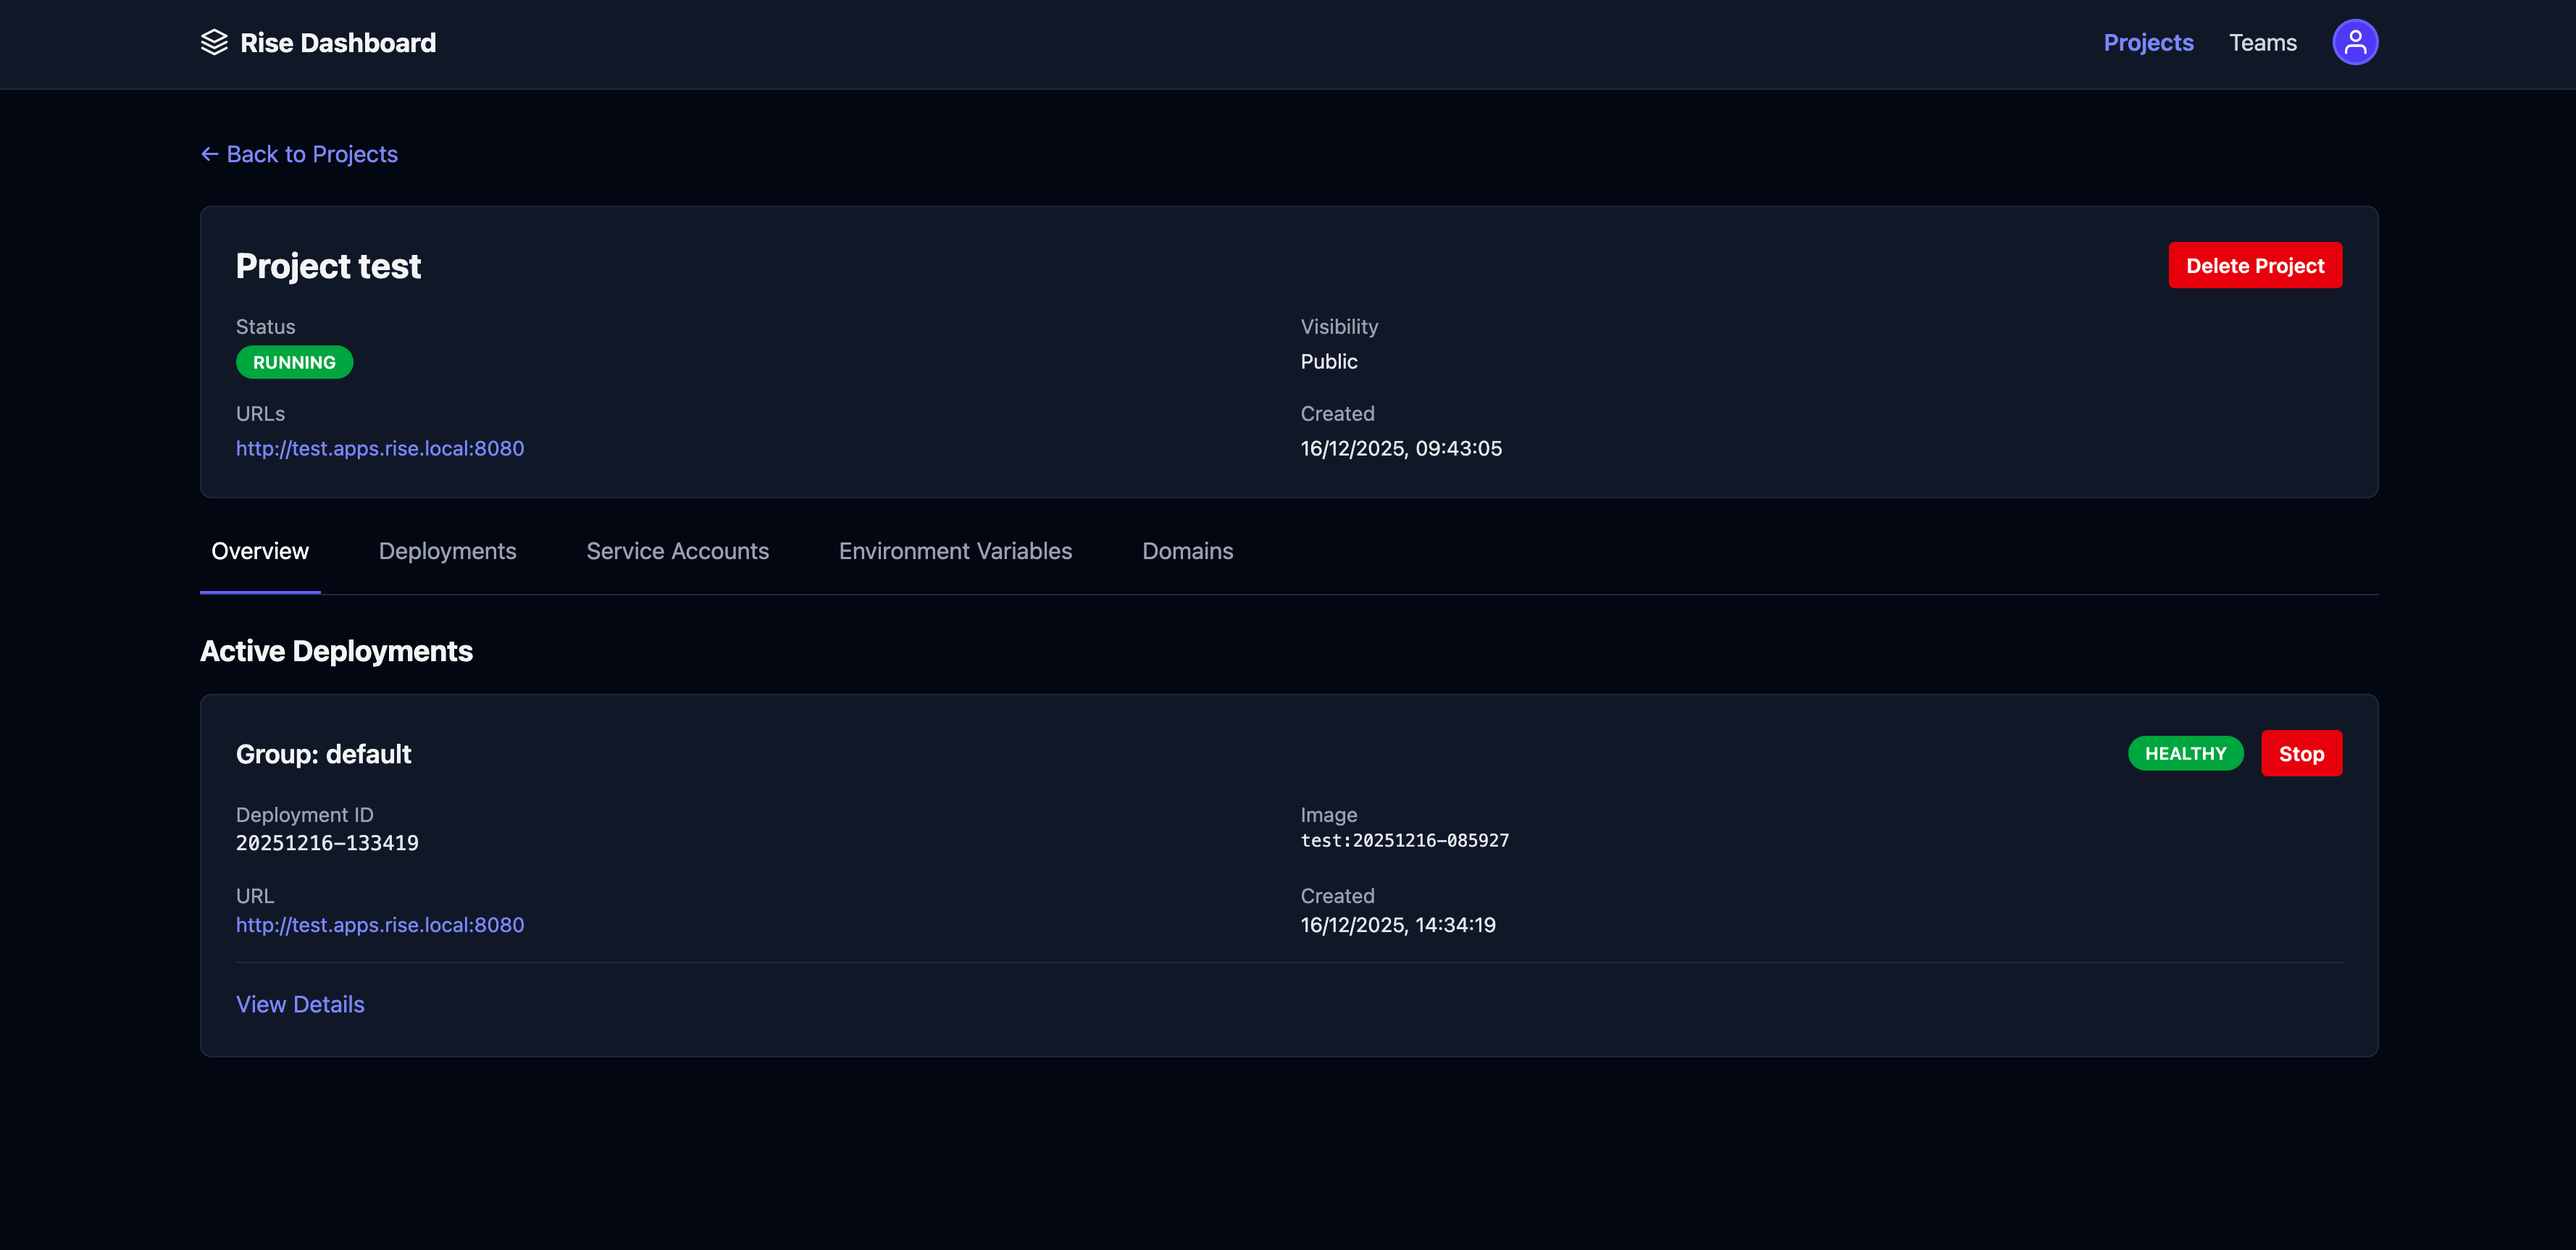
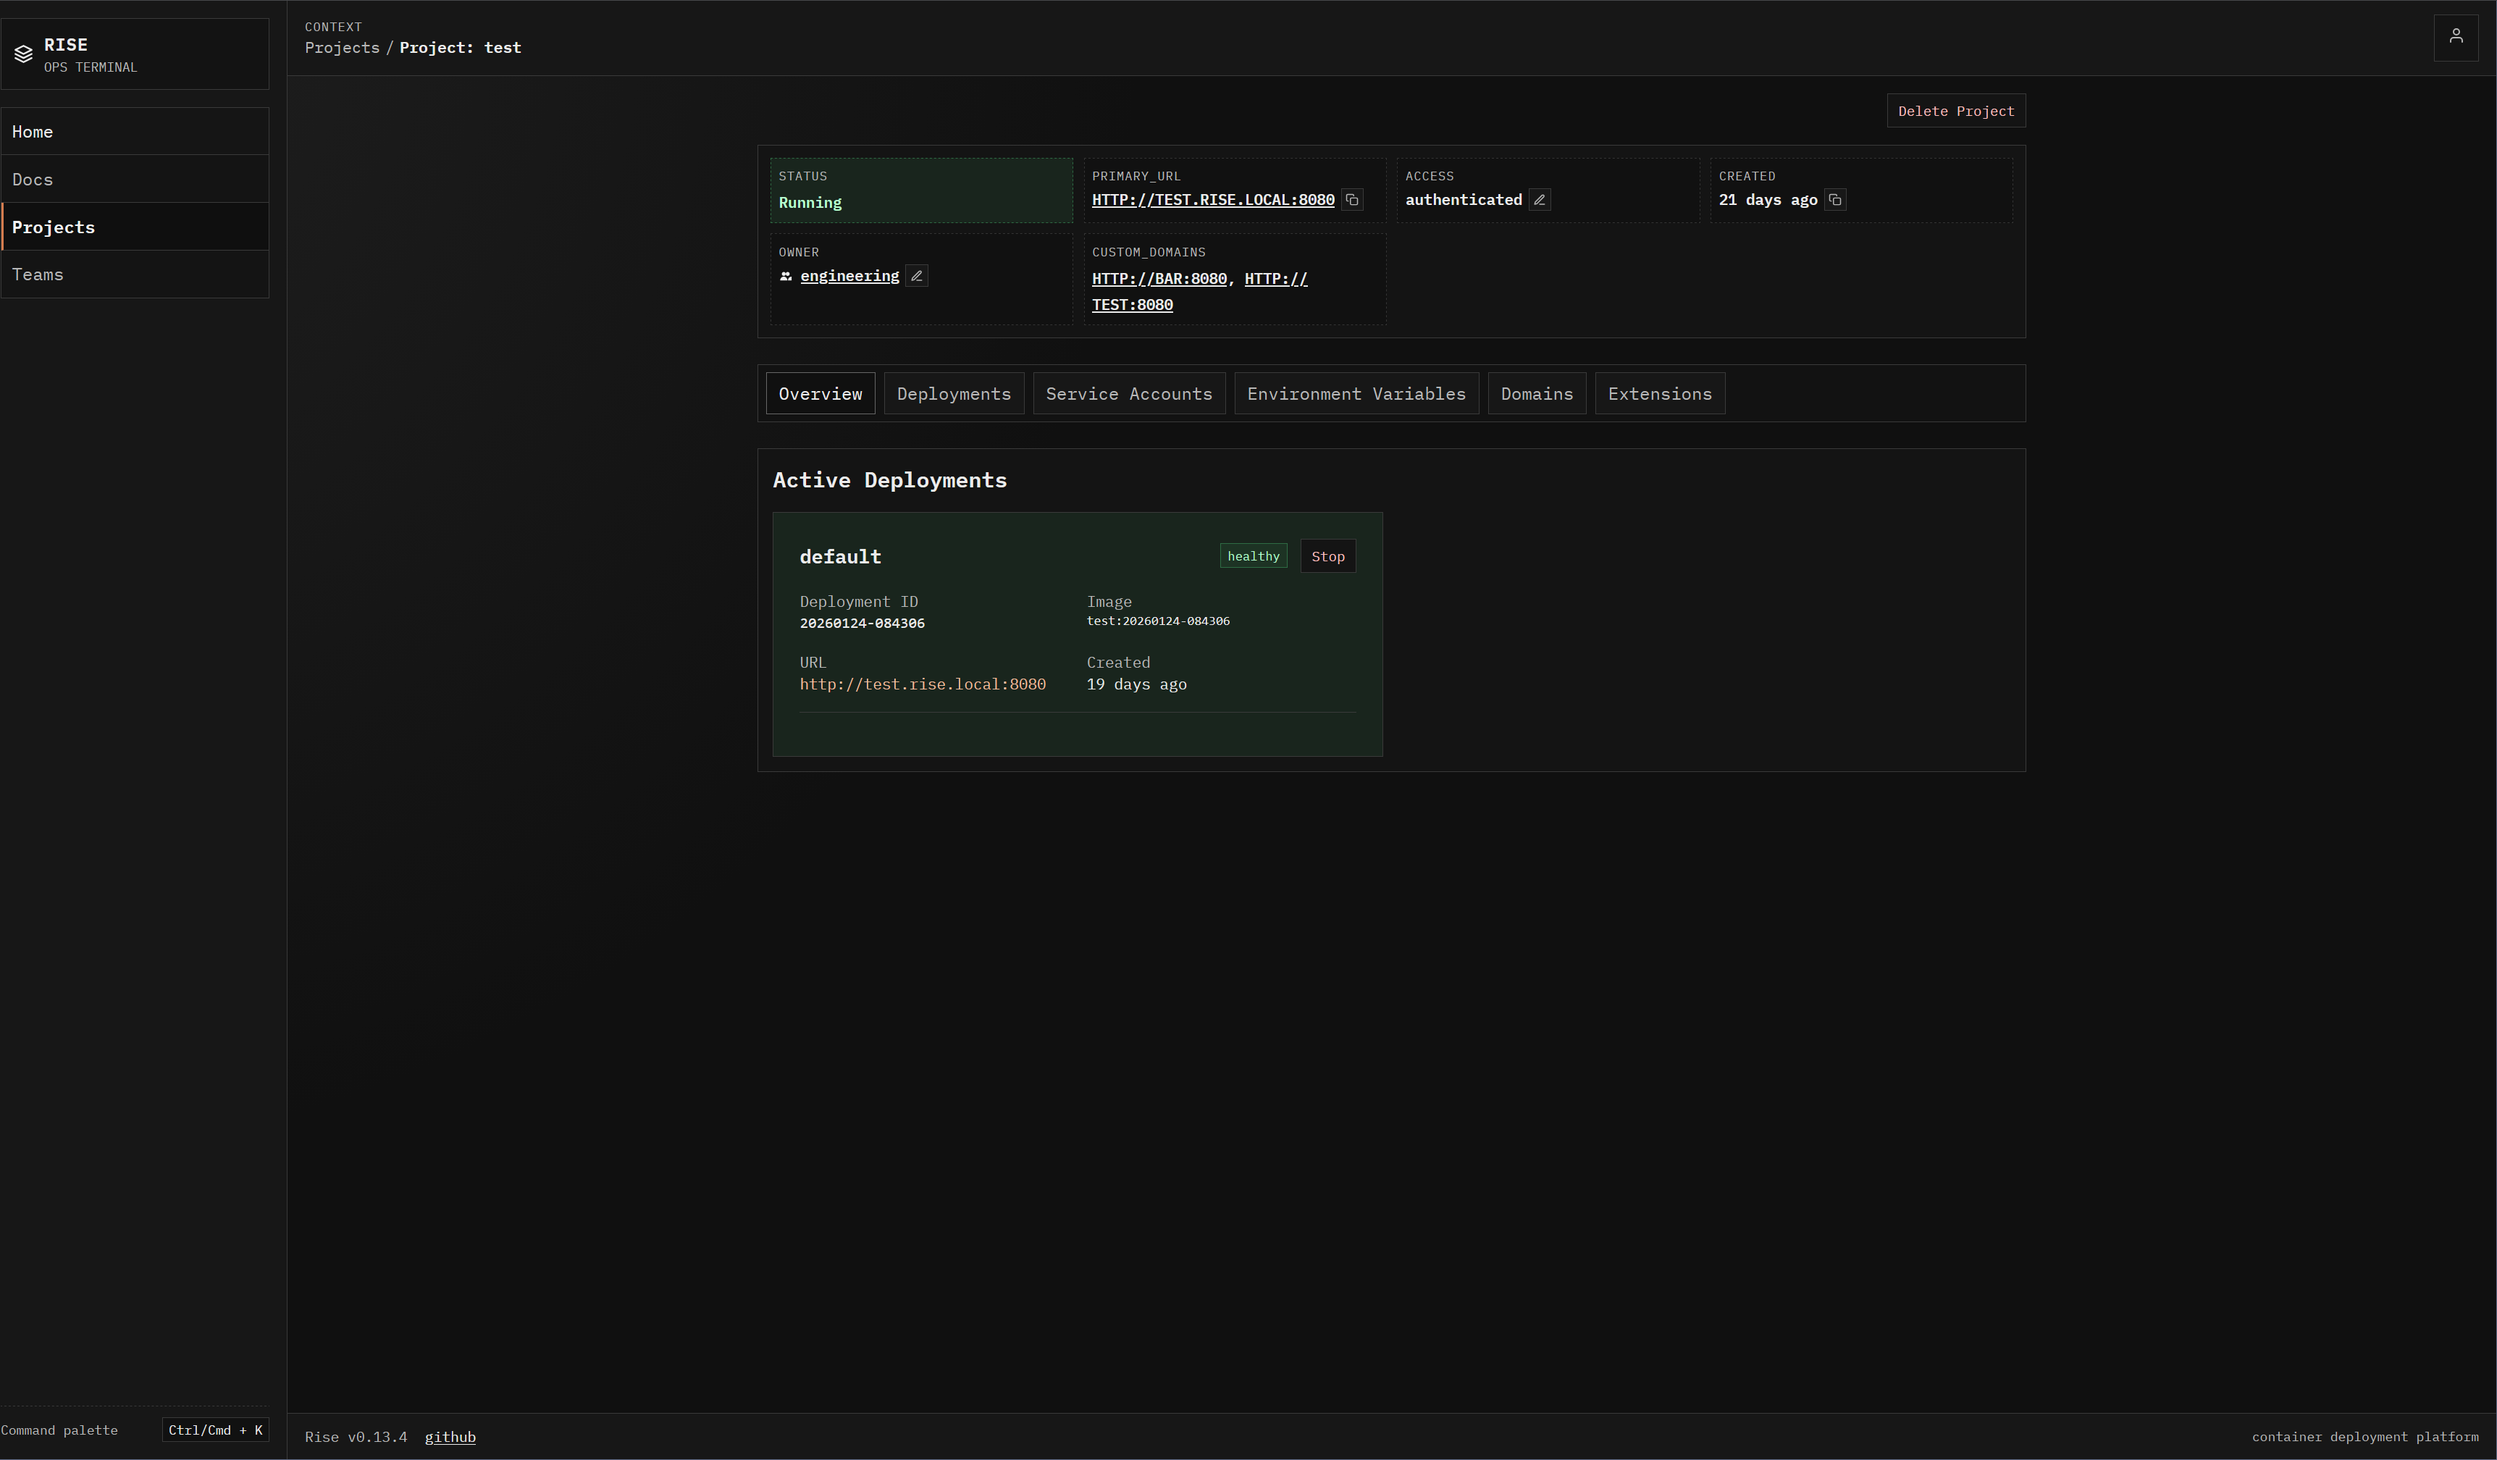
update README and screenshot

diff --git a/README.md b/README.md
@@ -1,46 +1,43 @@
-# Rise
+# Rise <img src="static/assets/favicon-32x32.png" height="32px" align="right"/> 
 
 <p align="center">
+    <p align="center">Rise is a Kubernetes-based platform for deploying containerized apps.</p>
+    <p align="center"><small><em>DISCLAIMER: Rise is an early work-in-progress project that mostly uses AI-generated code.</em></small></p>
     <img src="./screenshot.png" alt="Rise Web Dashboard Screenshot"/>
-    <p align="center">A Rust-based platform for deploying containerized applications with minimal configuration.</p>
 </p>
 
----
-
-&nbsp;
-
-> [!WARNING]
-> **Early Work in Progress**
->
-> This project is in a **very early experimental stage**. It is approximately **99% coded by Claude AI** (under technical guidance), which means:
-> - The codebase is actively evolving and may contain bugs or incomplete features
-> - APIs and interfaces may change frequently without notice
-> - Documentation may be out of sync with the current implementation
-> - Production use is **not recommended** at this stage
->
-> If you choose to use or experiment with Rise, please be aware that you're working with experimental software. Contributions, bug reports, and feedback are welcome, but please set expectations accordingly.
+[Go to Documentation → ](https://niklasrosenstein.github.io/rise/)
 
 ## What is Rise?
 
+  [pack]: https://buildpacks.io/docs/for-platform-operators/how-to/integrate-ci/pack/
+  [railpack]: https://railpack.com/
+
 Rise simplifies container deployment by providing:
+
 - **Simple CLI** for building and deploying apps
-- **Multi-tenant projects** with team collaboration
-- **OAuth2 authentication** via Dex
-- **Multiple registry backends** (AWS ECR, Docker)
-- **Service accounts** for CI/CD integration
+    - **Buildpack support** with [pack] and [railpack]
+    - **Enterprise ready** with support for corparate MITM proxies (handles `SSL_CERT_FILE` and `HTTPS_PROXY` forwarding)
 - **Web dashboard** for monitoring deployments
-
-## Features
-
 - **Project & Team Management**: Organize apps and collaborate with teams
-- **OAuth2/OIDC Authentication**: Secure authentication via Dex
-- **Multi-Registry Support**: AWS ECR, Docker Registry (Harbor, Quay, etc.)
-- **Service Accounts**: Workload identity for GitHub Actions, GitLab CI
-- **Multiple Build Backends**: Docker, Buildpacks, Railpack with build-time configuration
-- **Multi-Process Architecture**: Separate controllers for deployments, projects, ECR
-- **Embedded Web Frontend**: Single-binary deployment with built-in UI
+- **OAuth2/OIDC Authentication**: Secure authentication for Rise and deployed apps
+- **Multi-tenant projects** with team collaboration
+- **Automatic OCI repository provisioning**: Push images to AWS ACR with secure temporary credentials without per-project infrastructure setup
+- **Service Accounts**: Workload identity for GitHub Actions, GitLab CI, etc. to deploy from CI/CD
 
-## Quick Start
+## Install CLI from crates.io
+
+```bash
+# Install the CLI and backend from crates.io
+cargo install rise-deploy
+
+# Verify installation
+rise --version
+```
+
+Note that this does not include server code unless you use `--features cli,server`.
+
+## Local Development
 
 ### Prerequisites
 
@@ -51,119 +48,50 @@ Rise simplifies container deployment by providing:
 ### Start Services
 
 ```bash
+direnv allow
+# or else use `. .envrc`
+
 # Install development tools
 mise install
 
-# Start all services (postgres, dex, registry, backend)
+# Terminal (1): Start Minikube
+mise minikube:launch
+
+# Terminal (2): Start the frontend
+mise frontend:dev
+
+# Terminal (3) Start the backend (will also start required containers with docker compose)
 mise backend:run
 ```
 
 Services will be available at:
-- **Backend API**: http://localhost:3000
-- **Web UI (production-style)**: http://localhost:3000
-- **Web UI (development, proxied to Vite)**: http://rise.local:3000
+- **Rise server**: http://localhost:3000
 - **PostgreSQL**: localhost:5432
+- **Minikube HTTP/HTTPS Ingress**: http://localhost:8080, https://localhost:8443
+- **Vite.js Frontend Server**: http://localhost:5731
 
-For local UI development, add this host mapping if missing:
+However, you need to configure your `/etc/hosts` on your host to ensure consistent name resolution between the involved network namespace:
 
-```text
+```
+127.0.0.1 rise-registry
 127.0.0.1 rise.local
+127.0.0.1 {project}.rise.local # One for each Rise-deployed project you want to access
 ```
 
 **Default credentials**:
 - Email: `admin@example.com` or `test@example.com`
 - Password: `password`
 
-### Build and Use CLI
+## Deploy your first app
 
 ```bash
-# Build the CLI from source
-cargo build --bin rise
+# Build the CLI
+cargo build
+# `rise` binary should be available from direnv, otherwise use `cargo run`
 
-# Build frontend bundle for embedding in the backend
-mise frontend:build
+rise login # Add --url http://rise.local:3000 if you've logged into another backend before
 
-# The CLI is now available as 'rise' (if using direnv)
-# Or use the full path: ./target/debug/rise
-
-rise login
-rise project create my-app
-rise deployment create my-app --image nginx:latest
-
-# Local development
-rise run --project my-app  # Build and run locally with project env vars
-
-# Build with custom build-time variables (for build configuration)
-rise build myapp:latest -e NODE_ENV=production -e BUILD_VERSION=1.2.3
-
-# Or configure in rise.toml
-cat > rise.toml <<EOF
-[build]
-backend = "pack"
-env = ["NODE_ENV=production", "BP_NODE_VERSION=20"]
-EOF
+cd examples/hello-world
+rise project create hello-world
+rise deploy
 ```
-
-### Install from crates.io
-
-```bash
-# Install the CLI and backend from crates.io
-cargo install rise-deploy
-
-# Verify installation
-rise --version
-```
-
-## Documentation
-
-Full documentation is available in [`/docs`](./docs):
-
-- [Setup](docs/user-guide/setup.md) - Quick start guide
-- [Local Development](docs/development.md) - Development workflow
-- [CLI Guide](docs/user-guide/cli.md) - Command-line usage
-- [Authentication](docs/user-guide/authentication.md) - OAuth2 & service accounts
-- [Deployments](docs/user-guide/deployments.md) - Deployment lifecycle
-- [Building Images](docs/user-guide/builds.md) - Docker, pack, railpack
-- [Configuration](docs/configuration.md) - Backend configuration
-- [Container Registries](docs/user-guide/registries.md) - Registry usage in app workflows
-- [Kubernetes](docs/kubernetes.md) - K8s deployment backend
-- [Production Deployment](docs/production.md) - Production setup
-- [Database](docs/database.md) - PostgreSQL & migrations
-- [Testing](docs/testing.md) - Testing strategies
-- [Troubleshooting](docs/user-guide/troubleshooting.md) - Common issues
-
-## Architecture
-
-Rise uses a multi-process architecture:
-
-| Component | Purpose |
-|-----------|---------|
-| **rise-backend (server)** | HTTP API with embedded web frontend |
-| **rise-backend (controllers)** | Deployment, project, and ECR reconciliation |
-| **rise (CLI)** | Command-line interface |
-| **PostgreSQL** | Database for projects, teams, deployments |
-| **Dex** | OAuth2/OIDC provider for authentication |
-
-
-## Project Status
-
-**Production Ready**:
-- ✅ OAuth2 PKCE authentication
-- ✅ Project & team management
-- ✅ Service accounts (workload identity for CI/CD)
-- ✅ AWS ECR integration with Terraform module
-- ✅ Kubernetes controller with Ingress authentication
-- ✅ Build integrations (Docker, Buildpacks, Railpack)
-- ✅ Embedded web frontend
-- ✅ Deployment rollback and expiration
-
-**In Development**:
-- 🚧 Additional registry providers (GCR, ACR, GHCR)
-
-## Contributing
-
-Contributions are welcome! See [Local Development](docs/development.md) for development setup, code style, testing, and commit conventions.
-
-## License
-
-[Add your license here]
